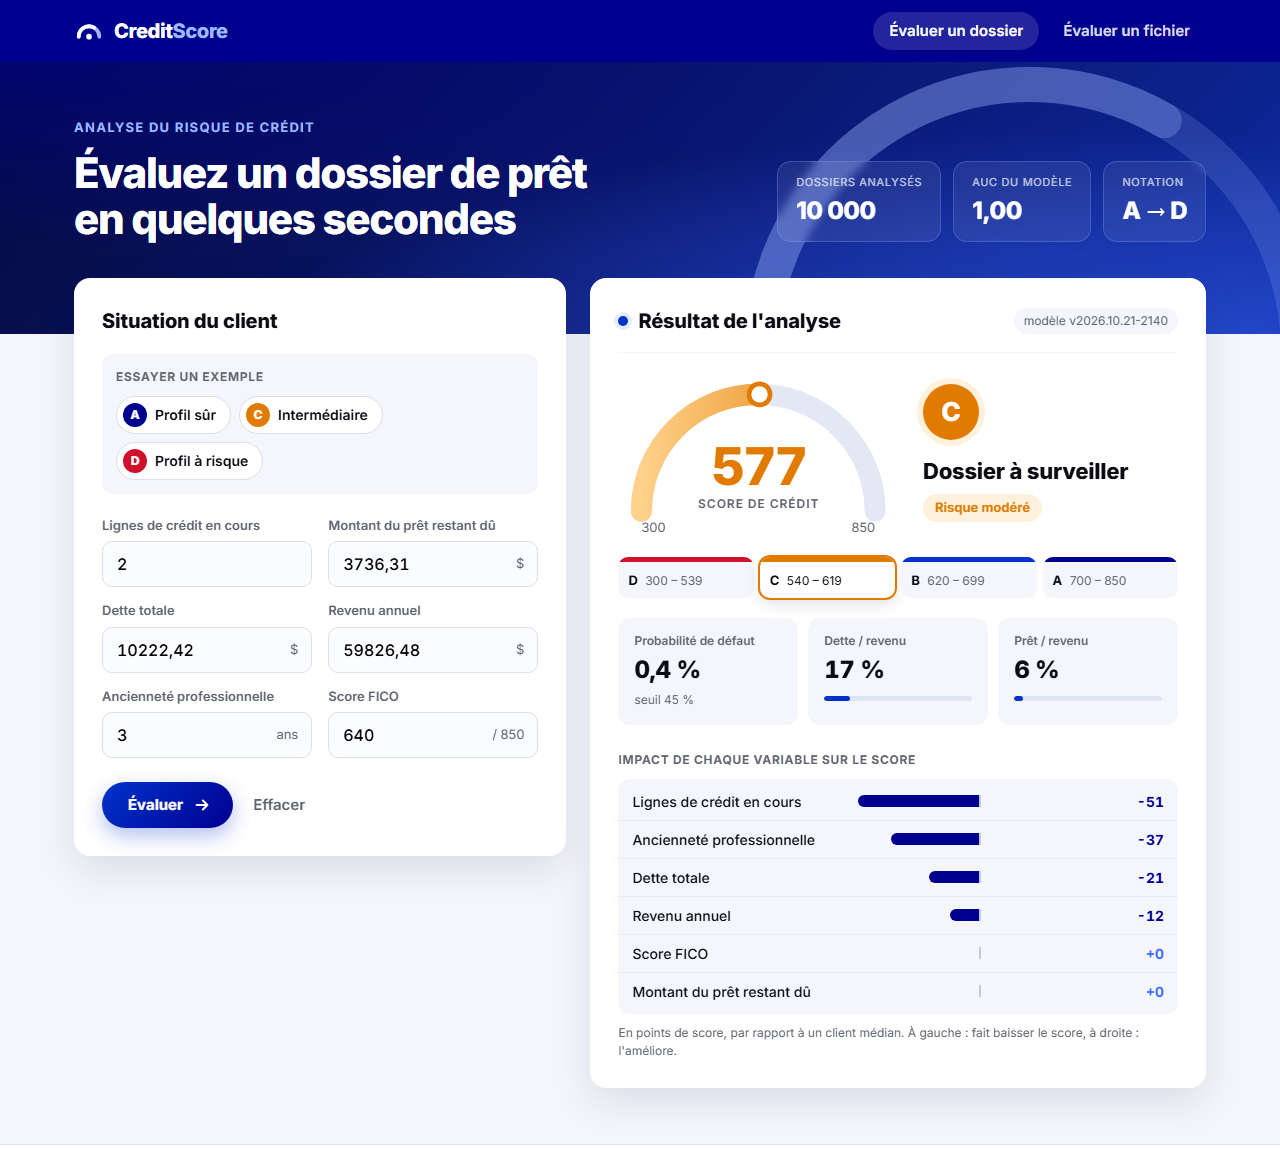
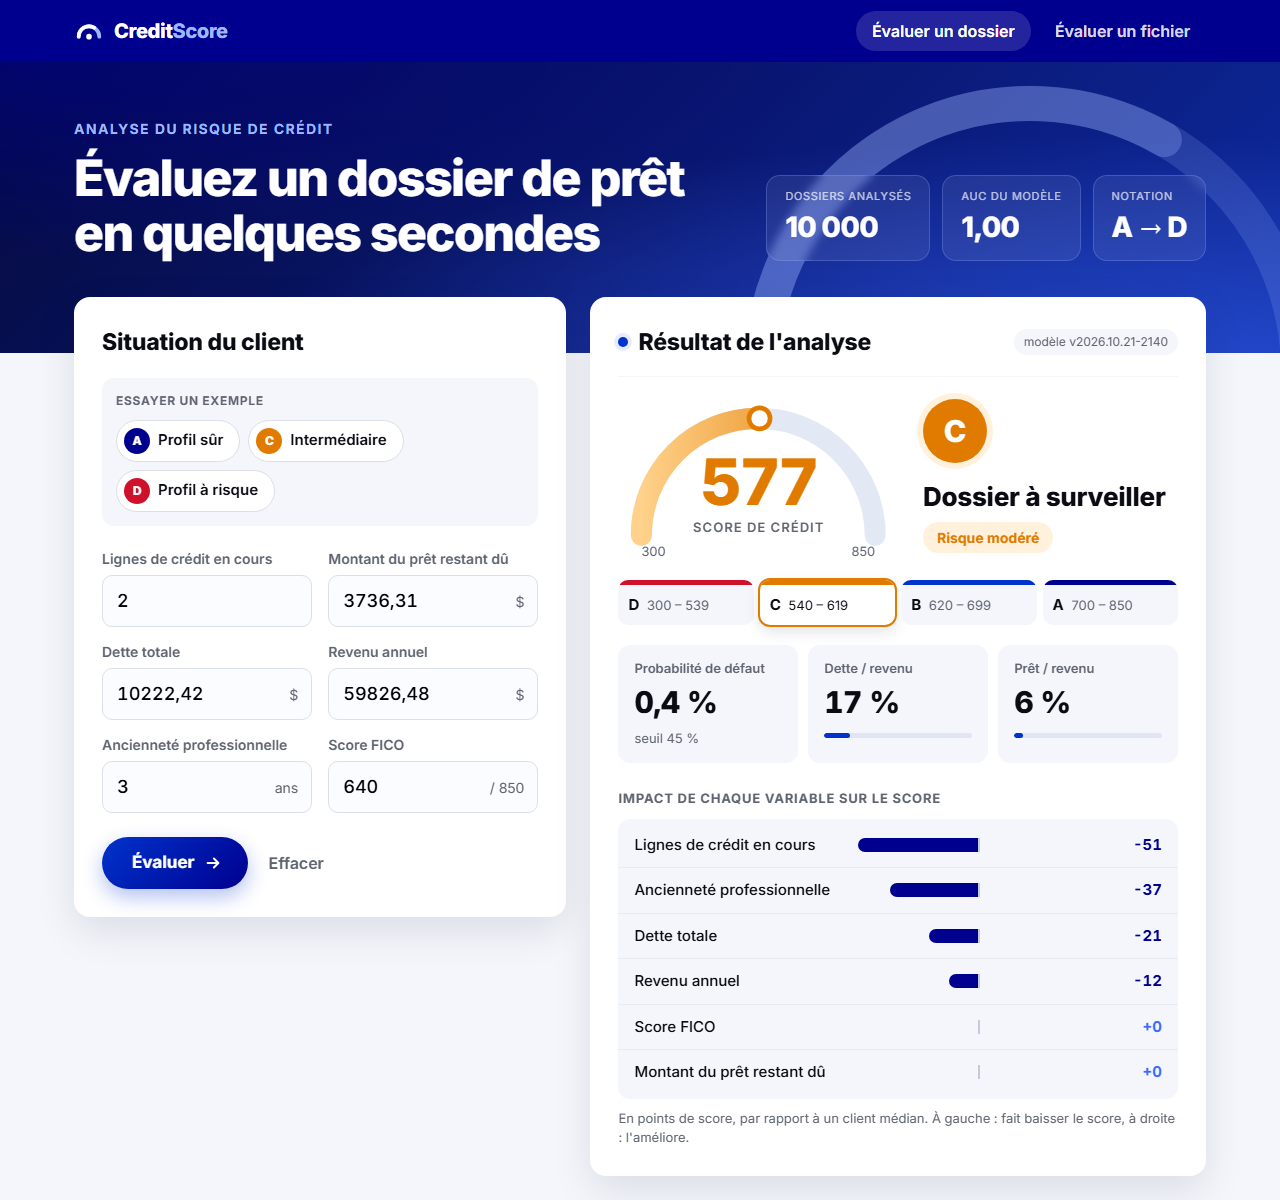
Interface plus lisible et README simplifié

diff --git a/credit_risk/static/style.css b/credit_risk/static/style.css
@@ -316,3 +316,87 @@ h3 { margin: 26px 0 10px; font-size: 12px; font-weight: 700; text-transform: upp
     .hero-stats { flex-wrap: wrap; }
     .card { padding: 22px 18px; }
 }
+
+/* Lisibilité : textes plus grands */
+body { font-size: 16px; }
+.hero h1 { font-size: 50px; }
+.hero-sub { font-size: 18px; }
+.kicker { font-size: 14px; }
+.hero-stats dd { font-size: 28px; }
+.card h2 { font-size: 23px; }
+.field-label { font-size: 14px; }
+.input input { height: 52px; font-size: 18px; }
+.unit { font-size: 14px; }
+button { height: 52px; padding: 0 26px 0 30px; font-size: 17px; }
+.chip { padding: 7px 16px 7px 7px; font-size: 15px; }
+.chip-grade { width: 26px; height: 26px; }
+.score { font-size: 64px; }
+.score-label { font-size: 13px; }
+.verdict { font-size: 26px; }
+.pill { padding: 5px 14px; font-size: 14px; }
+.grade { width: 64px; height: 64px; font-size: 30px; }
+.grades li { font-size: 13px; }
+.grades b { font-size: 15px; }
+.kpi-label, .kpi-note { font-size: 13px; }
+.kpi-value { font-size: 30px; }
+h3 { font-size: 13px; }
+.factors li { padding: 11px 16px; font-size: 15px; }
+.factor-chart { height: 14px; }
+.note { font-size: 13px; }
+.lead { font-size: 17px; }
+.footer-inner { font-size: 14px; }
+
+/* Animations fluides */
+@keyframes rise { from { opacity: 0; transform: translateY(18px); } to { opacity: 1; transform: none; } }
+@keyframes pop { 0% { opacity: 0; transform: scale(.4); } 70% { transform: scale(1.12); } 100% { opacity: 1; transform: scale(1); } }
+@keyframes draw { from { stroke-dashoffset: var(--share); } to { stroke-dashoffset: 0; } }
+@keyframes grow { from { transform: scaleX(0); } to { transform: scaleX(1); } }
+@keyframes fade { from { opacity: 0; } to { opacity: 1; } }
+
+.card { animation: rise .6s cubic-bezier(.2, .7, .2, 1) both; }
+.main > .card:nth-child(2), .dev > .card:nth-child(2) { animation-delay: .08s; }
+.dev > .card:nth-child(3) { animation-delay: .16s; }
+.dev > .card:nth-child(4) { animation-delay: .24s; }
+.hero-inner > * { animation: rise .7s cubic-bezier(.2, .7, .2, 1) both; }
+.hero-stats { animation-delay: .12s !important; }
+
+.gauge-value { animation: draw 1.1s cubic-bezier(.3, .7, .2, 1) .15s both; }
+.gauge-dot { animation: fade .3s ease 1.15s both; }
+.grade { animation: pop .55s cubic-bezier(.3, 1.4, .5, 1) .5s both; }
+.verdict, .decision .pill, .warning { animation: rise .5s ease .6s both; }
+.grades li.on { animation: pop .5s cubic-bezier(.3, 1.4, .5, 1) .8s both; }
+
+.half span, .kpi-bar span, .dist-bar span { animation: grow .9s cubic-bezier(.2, .7, .2, 1) .5s both; }
+.half.pos span, .kpi-bar span, .dist-bar span { transform-origin: left; }
+.half.neg span { transform-origin: right; }
+.factors li, .dist-row, .kpi { animation: rise .45s ease both; }
+.kpi:nth-child(1) { animation-delay: .35s; }
+.kpi:nth-child(2) { animation-delay: .42s; }
+.kpi:nth-child(3) { animation-delay: .49s; }
+.kpi:nth-child(4) { animation-delay: .56s; }
+.factors li:nth-child(1), .dist-row:nth-child(1) { animation-delay: .5s; }
+.factors li:nth-child(2), .dist-row:nth-child(2) { animation-delay: .56s; }
+.factors li:nth-child(3), .dist-row:nth-child(3) { animation-delay: .62s; }
+.factors li:nth-child(4), .dist-row:nth-child(4) { animation-delay: .68s; }
+.factors li:nth-child(5) { animation-delay: .74s; }
+.factors li:nth-child(6) { animation-delay: .8s; }
+
+.kpi, .steps li, .endpoint { transition: transform .2s ease, box-shadow .2s ease; }
+.kpi:hover, .steps li:hover, .endpoint:hover { transform: translateY(-2px); box-shadow: 0 8px 22px rgba(5, 10, 60, .08); }
+.factors li { transition: background .15s; }
+.factors li:hover { background: #eef2fc; }
+
+@media (max-width: 960px) {
+    .hero h1 { font-size: 38px; }
+}
+@media (max-width: 560px) {
+    .hero h1 { font-size: 31px; }
+    .score { font-size: 56px; }
+    .kpi-value { font-size: 26px; }
+    .input input { font-size: 17px; }
+}
+
+/* Pas d'animation pour les personnes qui les ont désactivées dans leur système */
+@media (prefers-reduced-motion: reduce) {
+    *, *::before, *::after { animation: none !important; transition: none !important; }
+}

diff --git a/credit_risk/templates/index.html b/credit_risk/templates/index.html
@@ -55,7 +55,7 @@
             </form>
         </section>
 
-        <section class="card result" aria-live="polite">
+        <section class="card result" aria-live="polite" {% if result or errors %}data-scroll-to{% endif %}>
             <header class="result-head">
                 <h2>Résultat de l'analyse</h2>
                 {% if result %}<span class="version">modèle v{{ card.model_version }}</span>{% endif %}
@@ -90,6 +90,7 @@
                             <path class="gauge-track" d="M 20 120 A 100 100 0 0 1 220 120"/>
                             {% if result %}
                             <path class="gauge-value" d="M 20 120 A 100 100 0 0 1 220 120" pathLength="100"
+                                  style="--share: {{ '%.2f' | format(dash.gauge.share) }}"
                                   stroke-dasharray="{{ '%.2f' | format(dash.gauge.share) }} 200"/>
                             <circle class="gauge-dot" cx="{{ '%.1f' | format(dash.gauge.x) }}" cy="{{ '%.1f' | format(dash.gauge.y) }}" r="9"/>
                             {% endif %}
@@ -97,7 +98,7 @@
                             <text x="220" y="138" class="gauge-scale" text-anchor="end">850</text>
                         </svg>
                         <figcaption>
-                            <span class="score">{{ result.credit_score if result else '—' }}</span>
+                            <span class="score" {% if result %}data-count="{{ result.credit_score }}" data-from="300"{% endif %}>{{ result.credit_score if result else '—' }}</span>
                             <span class="score-label">Score de crédit</span>
                         </figcaption>
                     </figure>

diff --git a/credit_risk/static/app.js b/credit_risk/static/app.js
@@ -1,0 +1,27 @@
+// Petites animations : le score défile jusqu'à sa valeur et, sur téléphone,
+// la page descend jusqu'au résultat. Sans JavaScript, tout reste lisible.
+(function () {
+    var reduce = window.matchMedia("(prefers-reduced-motion: reduce)").matches;
+
+    document.querySelectorAll("[data-count]").forEach(function (el) {
+        var end = parseInt(el.dataset.count, 10);
+        var start = parseInt(el.dataset.from || "0", 10);
+        if (reduce || isNaN(end)) return;
+        var duration = 1100;
+        var t0 = null;
+        function step(now) {
+            if (t0 === null) t0 = now;
+            var p = Math.min((now - t0) / duration, 1);
+            var eased = 1 - Math.pow(1 - p, 3);
+            el.textContent = Math.round(start + (end - start) * eased);
+            if (p < 1) requestAnimationFrame(step);
+        }
+        el.textContent = start;
+        requestAnimationFrame(step);
+    });
+
+    var target = document.querySelector("[data-scroll-to]");
+    if (target && window.innerWidth < 960) {
+        target.scrollIntoView({ behavior: reduce ? "auto" : "smooth", block: "start" });
+    }
+})();

diff --git a/credit_risk/templates/fichier.html b/credit_risk/templates/fichier.html
@@ -53,7 +53,7 @@
         </section>
 
         {% if summary %}
-        <section class="card">
+        <section class="card" data-scroll-to>
             <header class="result-head">
                 <h2>Résultat : {{ filename }}</h2>
                 <a class="button" href="/fichier/resultats/{{ token }}">Télécharger les résultats ↓</a>

diff --git a/credit_risk/templates/base.html b/credit_risk/templates/base.html
@@ -34,5 +34,6 @@
             <span>CreditScore · <a href="/developpeurs">API pour les développeurs</a></span>
         </div>
     </footer>
+    <script src="/static/app.js?v={{ css_version }}" defer></script>
 </body>
 </html>

diff --git a/tests/test_app.py b/tests/test_app.py
@@ -153,7 +153,7 @@ def test_request_id_is_sanitized(client):
 
 def test_form_accepts_french_decimal_comma(client):
     page = client.post("/", data={**SAFE_CLIENT, "income": "78039,39"}).text
-    assert 'class="score">' in page
+    assert 'data-count="' in page  # un score est affiché
 
 
 def test_error_messages_are_readable(client):

diff --git a/README.md b/README.md
@@ -1,96 +1,37 @@
-# Prédiction du défaut de paiement (projet MLOps)
+# CreditScore : prédiction du défaut de paiement
 
 [![CI](https://github.com/Naomi-na2024/prediction-defaut-credit-mlops/actions/workflows/ci.yml/badge.svg)](https://github.com/Naomi-na2024/prediction-defaut-credit-mlops/actions/workflows/ci.yml)
 
-Le but du projet est de prédire si un client risque de ne pas rembourser son prêt. J'ai voulu aller au-delà
-du notebook : le modèle est servi par une API, l'application tourne dans Docker et les tests sont lancés
-automatiquement avec GitHub Actions.
+Une application qui estime si un client risque de ne pas rembourser son prêt, et lui donne un score de crédit.
 
 ![Aperçu de l'application](docs/apercu-application.png)
 
-## Données
-
-10 000 clients avec 6 variables : nombre de lignes de crédit, montant du prêt restant, dette totale,
-revenu, ancienneté professionnelle et score FICO. 18,5 % des clients sont en défaut.
-
-## Modèle
-
-J'ai comparé 4 modèles en validation croisée : régression logistique, arbre de décision, forêt aléatoire
-et gradient boosting. La régression logistique donne les meilleurs résultats, et c'est aussi la plus facile
-à expliquer, donc c'est celle que j'ai gardée. J'ai aussi testé SMOTE, mais ça n'améliorait pas le modèle.
-
-Résultats sur le jeu de test : AUC de 1,00 et F1 de 99,6 %. Ces scores sont très élevés parce que les
-données sont sans doute synthétiques : sur des vraies données, il faudrait s'attendre à moins.
-
-La probabilité de défaut est ensuite convertie en score de crédit de 300 à 850, comme dans une scorecard
-bancaire, avec une note de A à D. L'application montre aussi l'impact de chaque variable sur ce score.
-
-Toute l'analyse est dans `notebooks/analyse_et_modelisation.ipynb`.
-
-## Organisation
-
-```
-credit_risk/   code de l'application (entraînement, modèle, API, page web)
-data/          données
-models/        modèle entraîné + ses métriques
-notebooks/     analyse et choix du modèle
-tests/         tests
-docs/          guide d'utilisation
-deploy/        mise en ligne sur Hugging Face
-```
-
-## Lancer le projet
-
-Avec Docker :
+## Tester l'application
 
 ```bash
-docker compose up --build
+git clone https://github.com/Naomi-na2024/prediction-defaut-credit-mlops.git
+cd prediction-defaut-credit-mlops
+docker compose up
 ```
 
-Sans Docker :
+Puis ouvrir http://localhost:5000 et cliquer sur un exemple.
 
-```bash
-pip install -r requirements-dev.txt
-uvicorn credit_risk.api:app --port 5000
-```
+## En bref
 
-L'application est ensuite sur http://localhost:5000. On peut y évaluer un client, ou importer un fichier
-Excel / CSV pour noter tout un portefeuille (50 000 clients en moins de 3 secondes).
-La documentation de l'API est sur http://localhost:5000/docs.
+- 10 000 clients, 6 variables financières
+- 4 modèles comparés : la régression logistique est retenue (AUC 1,00, F1 99,6 %)
+- Score de 300 à 850, note de A à D, et ce qui a pesé dans la décision
+- Un client à la fois, ou tout un fichier Excel / CSV d'un coup
+- API, Docker, tests automatiques avec GitHub Actions
 
-Pour réentraîner le modèle et lancer les tests :
+## Pour aller plus loin
 
-```bash
-python -m credit_risk.train
-pytest
-```
-
-Plus de détails dans le [guide d'utilisation](docs/GUIDE_UTILISATION.md).
-
-## Exemple d'appel à l'API
-
-```bash
-curl -X POST http://localhost:5000/api/v1/predict \
-  -H "Content-Type: application/json" \
-  -d '{"credit_lines_outstanding": 5, "loan_amt_outstanding": 1958.93, "total_debt_outstanding": 8228.75,
-       "income": 26648.44, "years_employed": 2, "fico_score": 572}'
-```
-
-La réponse donne la probabilité de défaut, le score de crédit, la note et l'impact de chaque variable.
-
-## Outils utilisés
-
-Python, scikit-learn, FastAPI, Docker, GitHub Actions, MLflow, AWS (ECR et ECS).
-
-## Pistes d'amélioration
-
-- Choisir le seuil en fonction du coût réel d'une erreur pour la banque
-- Suivre la dérive des données une fois le modèle en production
-- Tester le modèle sur des données réelles
+- L'analyse et le choix du modèle : [notebooks/analyse_et_modelisation.ipynb](notebooks/analyse_et_modelisation.ipynb)
+- Le guide d'utilisation : [docs/GUIDE_UTILISATION.md](docs/GUIDE_UTILISATION.md)
+- La documentation de l'API : http://localhost:5000/docs une fois l'application lancée
 
 ## Auteure
 
-Naomi Nandjui - [LinkedIn](https://www.linkedin.com/in/blesson-naomi-nandjui-na)
+Naomi Nandjui · [LinkedIn](https://www.linkedin.com/in/blesson-naomi-nandjui-na)
 
-© 2024-2026 Naomi Nandjui. Tous droits réservés : le code est consultable, mais pas réutilisable
-sans mon accord (voir [LICENSE](LICENSE)).
+© 2024-2026 Naomi Nandjui. Tous droits réservés (voir [LICENSE](LICENSE)).
